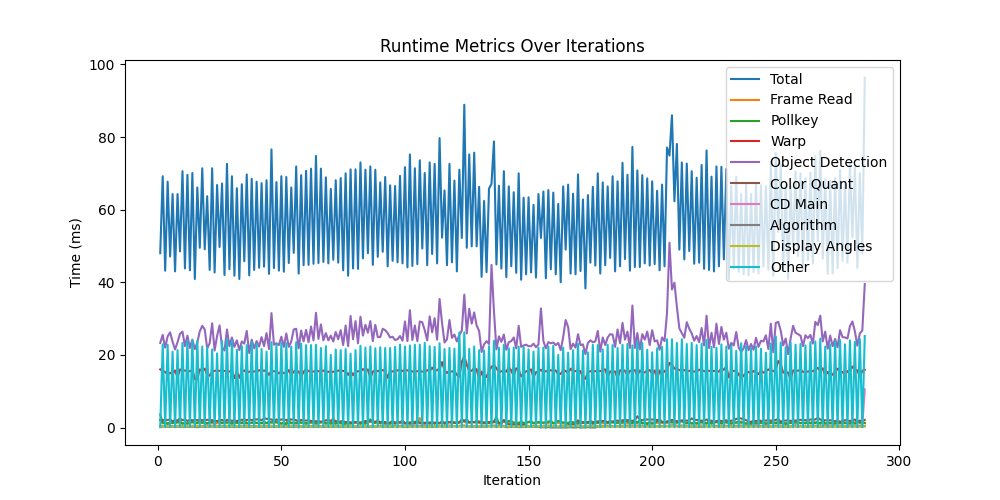
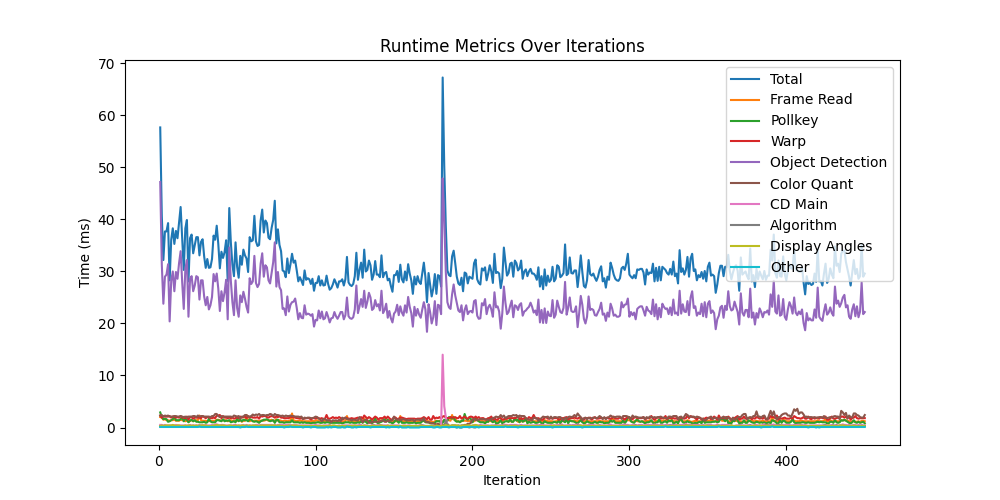
Updated warp, runs much faster now.

diff --git a/main.py b/main.py
@@ -25,6 +25,8 @@ from main_helpers import (
     quantize
 )
 from warp_main import warp
+from warp_main import get_warp_maps
+from warp_main import warp_map
 
 # ------------------------------ GLOBAL VARIABLES ------------------------------
 
@@ -40,8 +42,8 @@ COLOR_QUANTIZATION = True       # True if color quantization is on
 CAN_RECOVER = True              # True if want recovery
 CAMERA_STREAM = False           # True if using live camera stream, False if using pre-recorded video
 SHEET_RUNTIME = True            # Save runtimes to a spreadsheet and generate a graph (install "Excel Viewer" VS Code extension)
-SAVE_BBOXES = True             # Save bounding box images every BBOX_SAVE_FREQUENCY iterations
-BBOX_SAVE_FREQUENCY = 2        # How often to save bounding box images (every n iterations)
+SAVE_BBOXES = False             # Save bounding box images every BBOX_SAVE_FREQUENCY iterations
+BBOX_SAVE_FREQUENCY = 10        # How often to save bounding box images (every n iterations)
 
 # MODEL_NAME = "SmallComp"        # Used for comp, best accuracy if you have the compute for it.
 MODEL_NAME = "NanoSizeVariant"  # Use with lower image size for faster performance, not much worse accuracy.
@@ -90,6 +92,8 @@ def main():
         else:
             warped_frame, homography_matrix = read_prev_homography(captured_image, folder + "/homography_matrix.txt")
             selected_colors = read_prev_colors(folder + "/selected_colors.txt")
+
+        map_x, map_y = get_warp_maps(homography_matrix)
 
         # 4. Initialize color quantization cv2
         if COLOR_QUANTIZATION:
@@ -199,9 +203,22 @@ def main():
                 else:
                     key = None
                 rs.log("Pollkey", ptime() - t)
+
+
+                # # 1. GLOBAL PRE-PROCESS (Do this once per frame)
+                # # This ensures consistent lighting across the whole 1080p image
+                # lab = cv2.cvtColor(frame, cv2.COLOR_BGR2LAB)
+                # l, a, b = cv2.split(lab)
+                # clahe = cv2.createCLAHE(clipLimit=2.0, tileGridSize=(8,8))
+                # l = clahe.apply(l)
+                # frame = cv2.cvtColor(cv2.merge((l, a, b)), cv2.COLOR_LAB2BGR)
                 
+                # t = ptime()
+                # warped_frame = warp(frame, homography_matrix)
+                # rs.log("Warp", ptime() - t)
+
                 t = ptime()
-                warped_frame = warp(frame, homography_matrix)
+                warped_frame = warp_map(frame, map_x, map_y)
                 rs.log("Warp", ptime() - t)
 
                 # 11. Run the Warped Image through Object Detection

diff --git a/warp_main.py b/warp_main.py
@@ -143,6 +143,38 @@ def warp(frame, h_mat):
             borderValue=(0, 0, 0)
         )
 
+def get_warp_maps(h_mat, dst_size=(ARENA_WIDTH, ARENA_WIDTH)):
+    # Calculate the inverse homography
+    h_inv = np.linalg.inv(h_mat)
+    
+    # Create a grid of coordinates for the destination image
+    w, h = dst_size
+    grid_x, grid_y = np.meshgrid(np.arange(w), np.arange(h))
+    
+    # Flatten and add the '1' for homogeneous coordinates
+    coords = np.stack([grid_x.ravel(), grid_y.ravel(), np.ones_like(grid_x.ravel())])
+    
+    # Map back to the source image coordinates
+    src_coords = h_inv @ coords
+    src_coords /= src_coords[2] # Normalize (Perspective division)
+    
+    # Reshape back to the image grid
+    map_x = src_coords[0].reshape(h, w).astype(np.float32)
+    map_y = src_coords[1].reshape(h, w).astype(np.float32)
+    
+    return map_x, map_y
+
+def warp_map(frame, map_x, map_y):
+    # This is significantly faster than warpPerspective for repeated transforms
+    return cv2.remap(
+        frame, 
+        map_x, 
+        map_y, 
+        interpolation=cv2.INTER_NEAREST, # Keeps clusters sharp
+        borderMode=cv2.BORDER_CONSTANT, 
+        borderValue=(0, 0, 0)
+    )
+
 
 if __name__ == "__main__":
     frame = cv2.imread('./vid_and_img_processing/sample_cage_ss.png')
